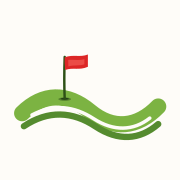
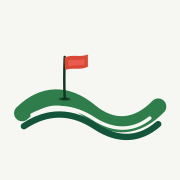
Refresh app branding and themes

Changed region(s): [[0.0556, 0.3056, 0.9444, 0.7778]]

diff --git a/constants/themes.ts b/constants/themes.ts
@@ -22,105 +22,67 @@ export type ThemeColors = {
   tabBarInactive: string;
 };
 
-export type ThemeName = 'earthy' | 'ocean' | 'dark' | 'lavender' | 'navy';
+export type ThemeName = 'light' | 'dark';
 
 export const themes: Record<ThemeName, ThemeColors> = {
-  earthy: {
-    background: '#fefcf8',
-    primary: '#7cb342',
-    primaryDark: '#558b2f',
-    accent: '#ff8f00',
-    textTitle: '#2d5016',
-    textBody: '#3d3d3d',
-    textMuted: '#7c6b4f',
+  light: {
+    background: '#f6f7f2',
+    primary: '#2f7d4b',
+    primaryDark: '#14543a',
+    accent: '#d94835',
+    textTitle: '#123322',
+    textBody: '#39423d',
+    textMuted: '#718077',
     cardBg: '#ffffff',
-    chipBg: '#f5f0e8',
-    chipText: '#555555',
-    chipSelectedBg: '#ff8f00',
+    chipBg: '#edf1e9',
+    chipText: '#39423d',
+    chipSelectedBg: '#d94835',
     chipSelectedText: '#ffffff',
-    border: '#e8e0d4',
+    border: '#dce2d8',
     tabBar: '#ffffff',
-    tabBarActive: '#7cb342',
-    tabBarInactive: '#9e9e9e',
-  },
-  ocean: {
-    background: '#f8fcfd',
-    primary: '#0891b2',
-    primaryDark: '#0e7490',
-    accent: '#f97066',
-    textTitle: '#164e63',
-    textBody: '#334155',
-    textMuted: '#5e8a94',
-    cardBg: '#ffffff',
-    chipBg: '#ecfeff',
-    chipText: '#555555',
-    chipSelectedBg: '#f97066',
-    chipSelectedText: '#ffffff',
-    border: '#d4eef2',
-    tabBar: '#ffffff',
-    tabBarActive: '#0891b2',
-    tabBarInactive: '#9e9e9e',
+    tabBarActive: '#2f7d4b',
+    tabBarInactive: '#718077',
   },
   dark: {
     background: '#0f1419',
-    primary: '#a3e635',
-    primaryDark: '#65a30d',
-    accent: '#fbbf24',
-    textTitle: '#e7e9ea',
-    textBody: '#c8cdd0',
-    textMuted: '#8899a6',
-    cardBg: '#1c2732',
-    chipBg: '#2d3a45',
-    chipText: '#c8cdd0',
-    chipSelectedBg: '#fbbf24',
+    primary: '#91d45f',
+    primaryDark: '#66b34e',
+    accent: '#f97066',
+    textTitle: '#edf5e8',
+    textBody: '#cbd6cf',
+    textMuted: '#91a095',
+    cardBg: '#18222b',
+    chipBg: '#24313a',
+    chipText: '#cbd6cf',
+    chipSelectedBg: '#f97066',
     chipSelectedText: '#0f1419',
-    border: '#38444d',
-    tabBar: '#1c2732',
-    tabBarActive: '#a3e635',
-    tabBarInactive: '#8899a6',
-  },
-  lavender: {
-    background: '#faf8ff',
-    primary: '#a78bfa',
-    primaryDark: '#7c3aed',
-    accent: '#fb923c',
-    textTitle: '#3b1f6e',
-    textBody: '#374151',
-    textMuted: '#8b7aac',
-    cardBg: '#ffffff',
-    chipBg: '#f3f0ff',
-    chipText: '#555555',
-    chipSelectedBg: '#fb923c',
-    chipSelectedText: '#ffffff',
-    border: '#e4dff5',
-    tabBar: '#ffffff',
-    tabBarActive: '#a78bfa',
-    tabBarInactive: '#9e9e9e',
-  },
-  navy: {
-    background: '#f8fafc',
-    primary: '#1e3a5f',
-    primaryDark: '#0f172a',
-    accent: '#f59e0b',
-    textTitle: '#1e293b',
-    textBody: '#374151',
-    textMuted: '#64748b',
-    cardBg: '#ffffff',
-    chipBg: '#f1f5f9',
-    chipText: '#555555',
-    chipSelectedBg: '#f59e0b',
-    chipSelectedText: '#ffffff',
-    border: '#e2e8f0',
-    tabBar: '#ffffff',
-    tabBarActive: '#1e3a5f',
-    tabBarInactive: '#9e9e9e',
+    border: '#34424b',
+    tabBar: '#18222b',
+    tabBarActive: '#91d45f',
+    tabBarInactive: '#91a095',
   },
 };
 
+const legacyThemeMap: Record<string, ThemeName> = {
+  earthy: 'light',
+  ocean: 'light',
+  lavender: 'light',
+  navy: 'light',
+};
+
+export function normalizeThemeName(name: unknown): ThemeName {
+  if (name === 'light' || name === 'dark') {
+    return name;
+  }
+
+  if (typeof name === 'string' && legacyThemeMap[name]) {
+    return legacyThemeMap[name];
+  }
+
+  return 'light';
+}
+
 export const themeNames: { key: ThemeName; label: string }[] = [
-  { key: 'earthy', label: 'Earthy Green' },
-  { key: 'ocean', label: 'Ocean Blue' },
-  { key: 'dark', label: 'Dark + Lime' },
-  { key: 'lavender', label: 'Lavender' },
-  { key: 'navy', label: 'Navy & Gold' },
+  { key: 'light', label: 'Light' },
+  { key: 'dark', label: 'Dark' },
 ];

diff --git a/app/(tabs)/(you)/theme.tsx b/app/(tabs)/(you)/theme.tsx
@@ -1,6 +1,5 @@
 /**
- * Theme picker — sub-screen of the You tab. Lifts the previous in-place theme
- * grid out of YouScreen and behind the Theme card. Selection takes effect
+ * Theme picker — sub-screen of the You tab. Selection takes effect
  * immediately (no Save button), matching the existing behavior.
  */
 
@@ -8,7 +7,7 @@ import { router } from 'expo-router';
 import { useMemo } from 'react';
 import { Pressable, ScrollView, StyleSheet, Text, View } from 'react-native';
 
-import { themeNames, ThemeName, themes } from '@/constants/themes';
+import { themeNames, themes } from '@/constants/themes';
 import { useScreenHeader } from '@/state/HeaderContext';
 import { useTheme } from '@/state/ThemeContext';
 
@@ -23,7 +22,7 @@ export default function ThemeScreen() {
 
   return (
     <ScrollView style={styles.container} contentContainerStyle={styles.content}>
-      <Text style={styles.title}>Theme</Text>
+      <Text style={styles.title}>Color scheme</Text>
       <View style={styles.list}>
         {themeNames.map(({ key, label }) => {
           const isActive = key === themeName;
@@ -32,7 +31,7 @@ export default function ThemeScreen() {
             <Pressable
               key={key}
               style={[styles.themeCard, isActive && styles.themeCardActive]}
-              onPress={() => setThemeName(key as ThemeName)}>
+              onPress={() => setThemeName(key)}>
               <View style={styles.swatchRow}>
                 <View style={[styles.swatch, { backgroundColor: swatch.primary }]} />
                 <View style={[styles.swatch, { backgroundColor: swatch.accent }]} />

diff --git a/scripts/generate-icons.ts b/scripts/generate-icons.ts
@@ -3,9 +3,9 @@
  * assets/logo/. Uses sharp so it runs anywhere Node runs.
  *
  * Outputs into assets/images/ (paths referenced by app.json):
- *   icon.png             1024×1024  master app icon
- *   adaptive-icon.png    1024×1024  Android foreground
- *   splash-icon.png      1024×1024  Expo splash image
+ *   icon-modern-scorecard.png           1024×1024  master app icon
+ *   adaptive-icon-modern-scorecard.png  1024×1024  Android foreground
+ *   splash-modern-scorecard.png         1024×1024  Expo splash image
  *   favicon.png          48×48      web favicon
  *
  * Outputs into public/ (paths referenced by manifest.json and +html.tsx):
@@ -35,9 +35,9 @@ type Job = {
 };
 
 const jobs: Job[] = [
-  { svg: 'icon.svg',          out: 'icon.png',             size: 1024 },
-  { svg: 'adaptive-icon.svg', out: 'adaptive-icon.png',    size: 1024 },
-  { svg: 'splash.svg',        out: 'splash-icon.png',      size: 1024 },
+  { svg: 'icon.svg',          out: 'icon-modern-scorecard.png',            size: 1024 },
+  { svg: 'adaptive-icon.svg', out: 'adaptive-icon-modern-scorecard.png',   size: 1024 },
+  { svg: 'splash.svg',        out: 'splash-modern-scorecard.png',          size: 1024 },
   { svg: 'icon.svg',          out: 'favicon.png',          size: 48 },
   { svg: 'icon.svg',          out: 'icon-192.png',         size: 192, dir: 'public' },
   { svg: 'icon.svg',          out: 'icon-512.png',         size: 512, dir: 'public' },

diff --git a/components/Logo.tsx b/components/Logo.tsx
@@ -5,8 +5,8 @@
  * mark can render inline in any RN view (the app header, the splash, etc.)
  * without going through the rasterized PNG assets.
  *
- * Green tones default to the active theme so the mark adapts to the user's
- * theme, while the red pin stays fixed to the selected brand direction.
+ * Green tones and the flag default to the active theme so the mark adapts
+ * to the user's selected color scheme.
  */
 
 import { useTheme } from '@/state/ThemeContext';
@@ -52,7 +52,7 @@ export function Logo({ size = 28, color, ballFill }: LogoProps) {
         strokeLinecap="round"
       />
       <Ellipse cx={368} cy={564} rx={36} ry={10} fill={cup} opacity={0.5} />
-      <Ellipse cx={368} cy={562} rx={24} ry={5.5} fill="#14280f" opacity={0.72} />
+      <Ellipse cx={368} cy={562} rx={24} ry={5.5} fill="#0b1f15" opacity={0.72} />
       <Path
         d="M368 324 C365 410 365 492 368 562"
         fill="none"
@@ -62,7 +62,7 @@ export function Logo({ size = 28, color, ballFill }: LogoProps) {
       />
       <Path
         d="M368 326 C416 308 456 328 500 310 L500 380 C450 402 416 382 371 398 C368 370 367 346 368 326 Z"
-        fill="#dc2626"
+        fill={colors.accent}
       />
       <Path
         d="M388 341 C418 337 446 347 480 336 L480 366 C449 376 420 368 389 378 Z"

diff --git a/components/AppHeader.tsx b/components/AppHeader.tsx
@@ -32,10 +32,7 @@ export function AppHeader() {
       <View style={styles.row}>
         <View style={styles.leftSlot}>{renderLeft(slots.left, styles)}</View>
         <View pointerEvents="none" style={styles.centerSlot}>
-          <View style={styles.brand}>
-            <Logo size={22} color={colors.primaryDark} ballFill={colors.cardBg} />
-            <Text style={styles.logo}>tee time</Text>
-          </View>
+          <Logo size={36} color={colors.primaryDark} ballFill={colors.cardBg} />
         </View>
         <View style={styles.rightSlot}>{renderRight(slots.right, styles)}</View>
       </View>
@@ -146,17 +143,6 @@ function makeStyles(colors: ReturnType<typeof useTheme>['colors']) {
       fontWeight: '700',
       letterSpacing: 0.5,
       color: colors.textMuted,
-    },
-    logo: {
-      fontSize: 16,
-      fontWeight: '800',
-      color: colors.textTitle,
-      letterSpacing: 0.3,
-    },
-    brand: {
-      flexDirection: 'row',
-      alignItems: 'center',
-      gap: 7,
     },
     backBtn: {
       flexDirection: 'row',

diff --git a/state/ThemeContext.tsx b/state/ThemeContext.tsx
@@ -8,10 +8,10 @@
 
 import { createContext, PropsWithChildren, useContext, useEffect, useMemo, useState } from 'react';
 
-import { ThemeColors, ThemeName, themes } from '@/constants/themes';
+import { normalizeThemeName, ThemeColors, ThemeName, themes } from '@/constants/themes';
 import { loadJSON, saveJSON, STORAGE_KEYS } from '@/state/persistence';
 
-const DEFAULT_THEME: ThemeName = 'earthy';
+const DEFAULT_THEME: ThemeName = 'light';
 
 type ThemeContextValue = {
   colors: ThemeColors;
@@ -29,9 +29,9 @@ export function AppThemeProvider({ children }: PropsWithChildren) {
   // Hydrate from storage on mount.
   useEffect(() => {
     let cancelled = false;
-    loadJSON<ThemeName>(STORAGE_KEYS.THEME_NAME, DEFAULT_THEME).then((name) => {
+    loadJSON<unknown>(STORAGE_KEYS.THEME_NAME, DEFAULT_THEME).then((name) => {
       if (cancelled) return;
-      setThemeName(name);
+      setThemeName(normalizeThemeName(name));
       setHydrated(true);
     });
     return () => {

diff --git a/app/+html.tsx b/app/+html.tsx
@@ -26,7 +26,7 @@ export default function Root({ children }: { children: React.ReactNode }) {
             Screen get a standalone launcher with the icon below and a
             native-looking status bar. */}
         <link rel="manifest" href="/manifest.json" />
-        <meta name="theme-color" content="#7cb342" />
+        <meta name="theme-color" content="#2f7d4b" />
         <link rel="apple-touch-icon" href="/apple-touch-icon.png" />
         <meta name="apple-mobile-web-app-capable" content="yes" />
         <meta name="apple-mobile-web-app-status-bar-style" content="default" />
@@ -50,10 +50,10 @@ export default function Root({ children }: { children: React.ReactNode }) {
 
 const responsiveBackground = `
 body {
-  background-color: #fff;
+  background-color: #f6f7f2;
 }
 @media (prefers-color-scheme: dark) {
   body {
-    background-color: #000;
+    background-color: #0f1419;
   }
 }`;

diff --git a/constants/Colors.ts b/constants/Colors.ts
@@ -1,19 +1,19 @@
-const tintColorLight = '#2f95dc';
-const tintColorDark = '#fff';
+const tintColorLight = '#2f7d4b';
+const tintColorDark = '#91d45f';
 
 export default {
   light: {
-    text: '#000',
-    background: '#fff',
+    text: '#39423d',
+    background: '#f6f7f2',
     tint: tintColorLight,
-    tabIconDefault: '#ccc',
+    tabIconDefault: '#718077',
     tabIconSelected: tintColorLight,
   },
   dark: {
-    text: '#fff',
-    background: '#000',
+    text: '#cbd6cf',
+    background: '#0f1419',
     tint: tintColorDark,
-    tabIconDefault: '#ccc',
+    tabIconDefault: '#91a095',
     tabIconSelected: tintColorDark,
   },
 };

diff --git a/app/(tabs)/(you)/settings.tsx b/app/(tabs)/(you)/settings.tsx
@@ -50,7 +50,7 @@ export default function SettingsScreen() {
   });
 
   const themeLabel = useMemo(
-    () => themeNames.find((t) => t.key === themeName)?.label ?? 'Earthy Green',
+    () => themeNames.find((t) => t.key === themeName)?.label ?? 'Light',
     [themeName]
   );
 
